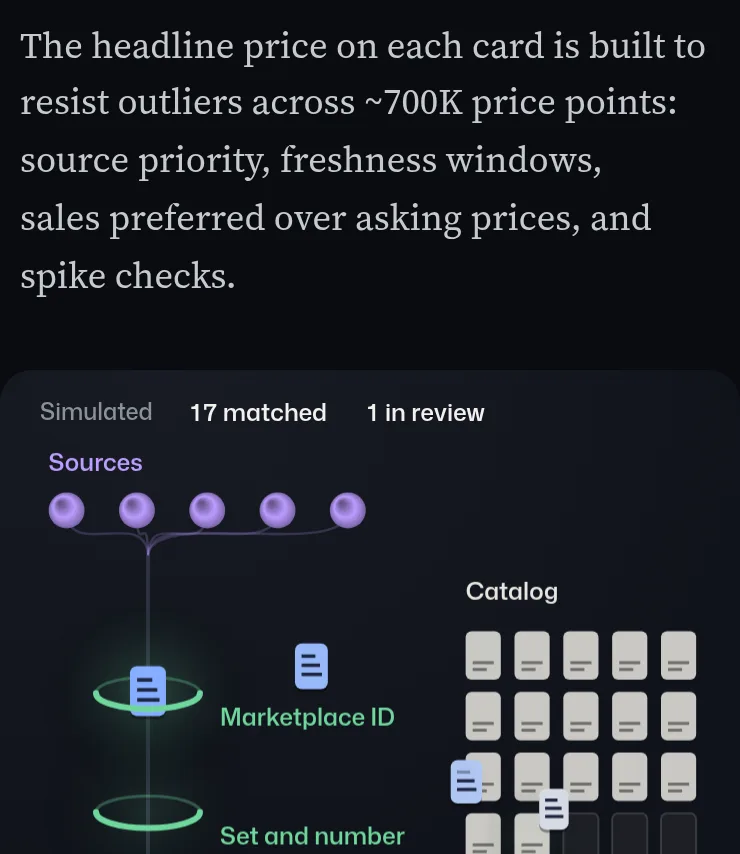
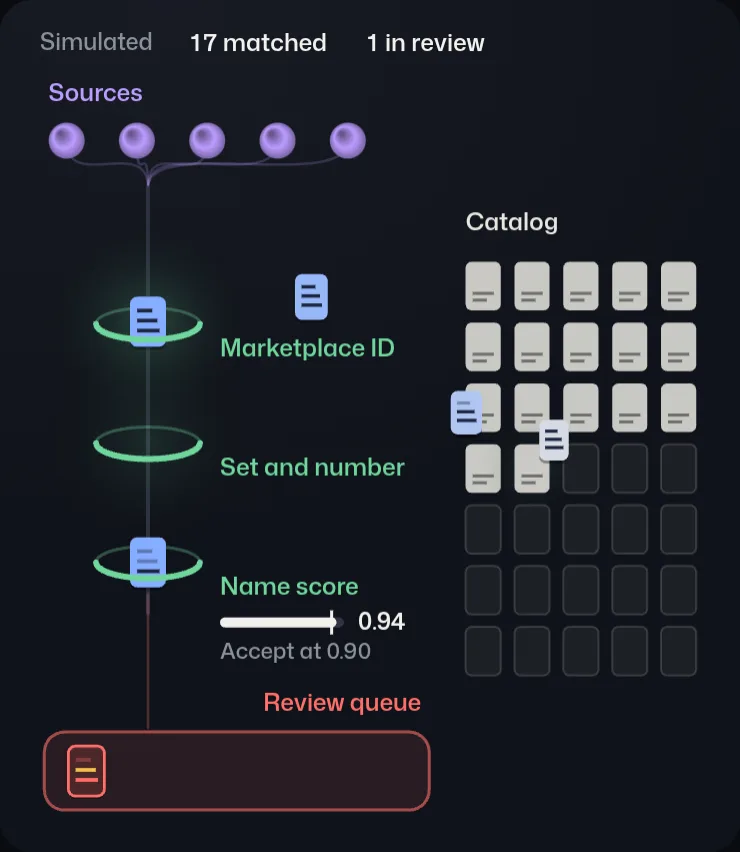
Review fixes: solid connector lines in the cache and match simulations, drop the footer source link, hide JS-only controls without JS, keep the hero scrim under the copy while scrolling, queue label at 390, notices and README

diff --git a/src/styles/layout.css b/src/styles/layout.css
@@ -50,6 +50,10 @@
   background: color-mix(in srgb, var(--chip) 80%, transparent);
 }
 
+.control[hidden] {
+  display: none;
+}
+
 .controls {
   justify-self: end;
   display: flex;
@@ -97,7 +101,7 @@
   position: absolute;
   inset: 0;
   pointer-events: none;
-  opacity: calc(1 - var(--p, 0) * 1.4);
+  opacity: calc(1 - max(0, var(--p, 0) - 0.6) * 2.5);
   background:
     linear-gradient(to top, var(--bg) 0, color-mix(in srgb, var(--bg) 60%, transparent) 16%, transparent 38%),
     linear-gradient(to right, color-mix(in srgb, var(--bg) 92%, transparent) 0, color-mix(in srgb, var(--bg) 72%, transparent) 34%, transparent 62%);

diff --git a/src/client/sim/cache.ts b/src/client/sim/cache.ts
@@ -511,9 +511,8 @@ function create(api: SimApi): Sim {
   }
 
   function drawLinks(g: CanvasRenderingContext2D, p: Palette) {
-    g.strokeStyle = alpha(p.dot, p.dark ? 0.35 : 0.45)
+    g.strokeStyle = alpha(p.dot, p.dark ? 0.24 : 0.32)
     g.lineWidth = 1
-    g.setLineDash([2, 4])
     g.beginPath()
     for (const c of L.clients) {
       g.moveTo(c.x + 10, c.y)
@@ -530,7 +529,6 @@ function create(api: SimApi): Sim {
     g.lineTo(L.cache.x0 - 2, L.keys[KEYS - 1].y)
     g.stroke()
     g.globalAlpha = 1
-    g.setLineDash([])
   }
 
   function drawRequests(g: CanvasRenderingContext2D, p: Palette) {

diff --git a/src/client/sim/match.ts b/src/client/sim/match.ts
@@ -493,14 +493,12 @@ function create(api: SimApi): Sim {
   function drawReviewPath(g: CanvasRenderingContext2D, p: Palette) {
     const [gx, gy] = gatePoint(2)
     const top = L.tray.y - (L.card.h + 14) / 2
-    g.strokeStyle = alpha(p.red, 0.32)
+    g.strokeStyle = alpha(p.red, 0.26)
     g.lineWidth = 1.2
-    g.setLineDash([3, 4])
     g.beginPath()
     g.moveTo(gx, gy + (L.portrait ? 16 : 92))
     g.lineTo(gx, top - 2)
     g.stroke()
-    g.setLineDash([])
   }
 
   function drawSources(g: CanvasRenderingContext2D, p: Palette) {

diff --git a/src/sections/Pullfolio.tsx b/src/sections/Pullfolio.tsx
@@ -3,14 +3,14 @@ import { CaseStudy } from './CaseStudy'
 
 type Shot = (typeof pullfolio.shots)[keyof typeof pullfolio.shots]
 
-function Screen({ shot, eager }: { shot: Shot; eager?: boolean }) {
+function Screen({ shot }: { shot: Shot }) {
   return (
     <img
       src={shot.src}
       width={shot.width}
       height={shot.height}
       alt={shot.alt}
-      loading={eager ? undefined : 'lazy'}
+      loading="lazy"
       decoding="async"
     />
   )

diff --git a/src/client/sim/queue.ts b/src/client/sim/queue.ts
@@ -469,7 +469,8 @@ function create(api: SimApi): Sim {
       }
     })
     const [lx, ly] = L.workers[0]
-    label(g, 'Workers', lx, ly - 36, p.green, 12, 560, L.portrait ? 'left' : 'center')
+    if (L.portrait) label(g, 'Workers', lx - 30, ly, p.green, 12, 560, 'right')
+    else label(g, 'Workers', lx, ly - 36, p.green, 12, 560, 'center')
     g.restore()
   }
 

diff --git a/src/content.ts b/src/content.ts
@@ -8,7 +8,6 @@ export const profile = {
   github: 'https://github.com/tungcodeforfun',
   linkedin: 'https://www.linkedin.com/in/tungngvyen',
   resume: '/resume.pdf',
-  source: 'https://github.com/tungcodeforfun/tungcodeforfun.github.io',
   site: 'https://tungcodeforfun.github.io/',
   title: 'Tung Nguyen, Senior Software Engineer, New York',
   description:

diff --git a/src/App.tsx b/src/App.tsx
@@ -43,7 +43,7 @@ export default function App() {
         <Contact />
       </main>
       <footer className="footer">
-        © {new Date().getFullYear()} {profile.name}. <a href={profile.source}>Source on GitHub</a>.
+        © {new Date().getFullYear()} {profile.name}.
       </footer>
     </>
   )

diff --git a/src/client/spring.ts b/src/client/spring.ts
@@ -1,4 +1,4 @@
-export type Spring = { value: number; target: number; velocity: number }
+type Spring = { value: number; target: number; velocity: number }
 
 export function spring(value: number): Spring {
   return { value, target: value, velocity: 0 }

diff --git a/README.md b/README.md
@@ -22,8 +22,10 @@ heavy parts load later, each in its own chunk:
 
 Notes:
 
-- All copy and facts live in `src/content.ts`. In case-study text, `{key|words}` colours those
+- Facts and prose live in `src/content.ts`. In case-study text, `{key|words}` colours those
   words to match the part of the simulation they name (keys are styled in `src/styles/layout.css`).
+  Section headings and short UI labels are in `src/sections/`, the labels drawn on the simulation
+  canvases are in `src/client/sim/`, and the OG card text is in `scripts/og.html`.
 - `public/resume.pdf` is the résumé linked from the page; replace the file to update it.
 - Fonts are subsets of Mona Sans and Source Serif 4 (see `THIRD_PARTY_NOTICES.md`).
 

diff --git a/THIRD_PARTY_NOTICES.md b/THIRD_PARTY_NOTICES.md
@@ -17,3 +17,9 @@ Copyright 2023 The Mona Sans Project Authors (https://github.com/github/mona-san
 The hero scene bundles three.js 0.186.1 (https://github.com/mrdoob/three.js).
 
 Copyright © 2010-2026 three.js authors. Licensed under the MIT License: https://github.com/mrdoob/three.js/blob/dev/LICENSE
+
+## IBM Plex Sans
+
+`design/comps3/fonts/ibm-plex-sans-latin-*.woff2` are the Latin subsets of IBM Plex Sans from the `@fontsource/ibm-plex-sans` 5.3.0 package, used only by the design comps.
+
+Copyright 2019 IBM Corp. All rights reserved. Licensed under the SIL Open Font License, Version 1.1: https://openfontlicense.org/open-font-license-official-text/
